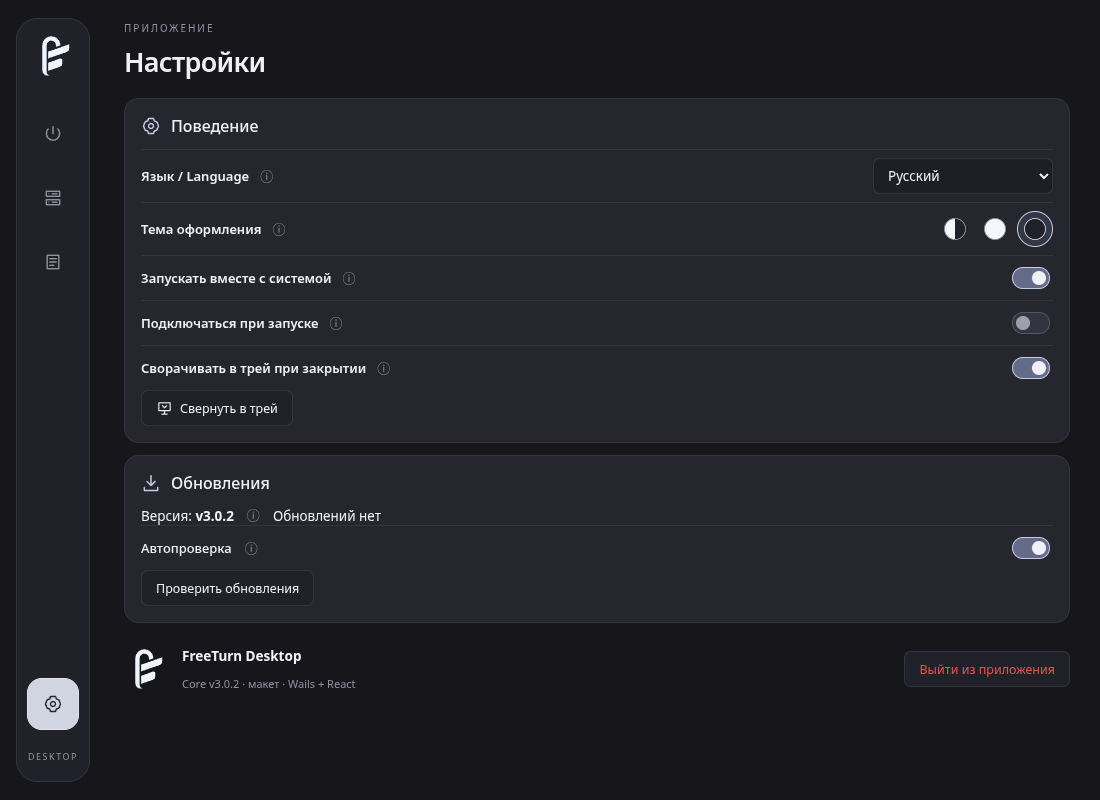
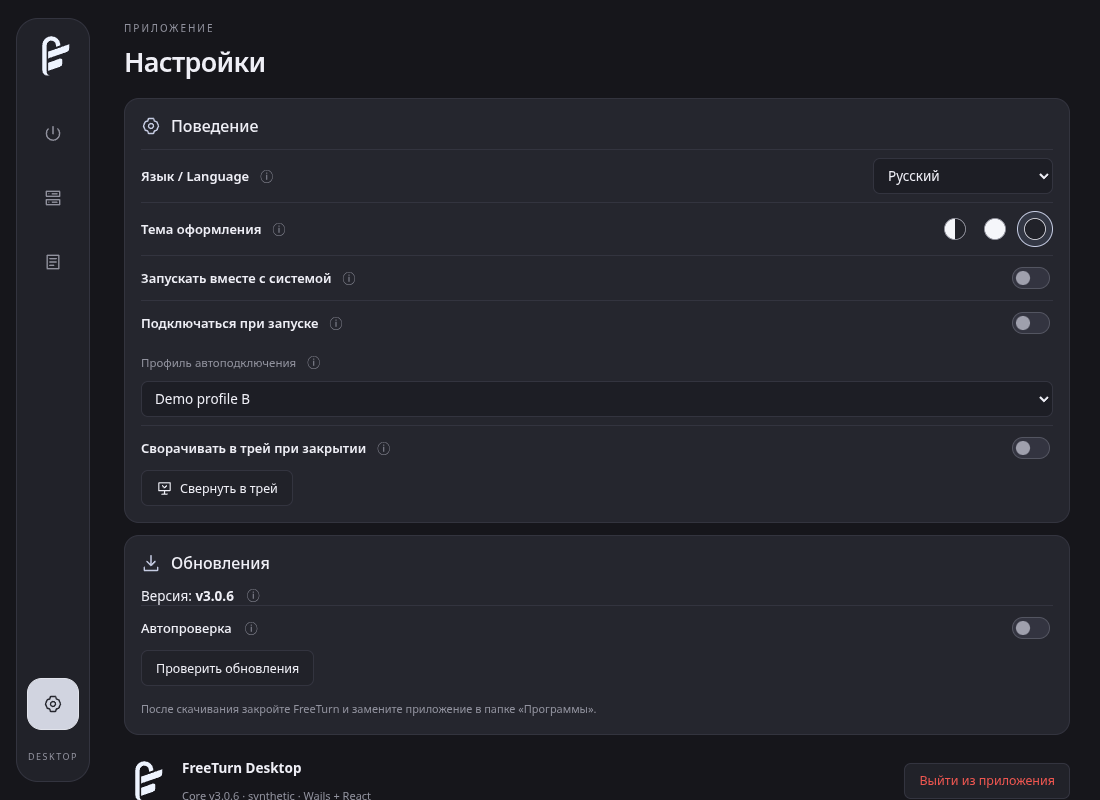
Repair stale startup profile selection before enabling auto-connect

diff --git a/desktop/frontend/src/components/DesktopPreferences.tsx b/desktop/frontend/src/components/DesktopPreferences.tsx
@@ -7,6 +7,7 @@ import {availableLanguages, configureLanguage, tr} from '../language'
 import FieldLabel from './FieldLabel'
 import {configureTheme, subscribeTheme, themeSnapshot} from '../theme'
 import ThemePicker from './ThemePicker'
+import {resolveStartupProfile} from '../autoConnectSettings'
 
 function PreferenceSwitch({id, title, hint, checked, disabled, onChange}: {
   id:string; title:string; hint:string; checked:boolean; disabled:boolean; onChange:(value:boolean)=>void
@@ -17,11 +18,14 @@ function PreferenceSwitch({id, title, hint, checked, disabled, onChange}: {
   </div>
 }
 
-export default function DesktopPreferences({version, active, servers}: {version: string; active: boolean; servers: backend.Server[]}) {
+export default function DesktopPreferences({version, active, servers, selectedServerId}: {version: string; active: boolean; servers: backend.Server[]; selectedServerId?: string}) {
   const [settings, setSettings] = useState<DesktopSettings | null>(null)
   const theme = useSyncExternalStore(subscribeTheme, themeSnapshot)
   const [busy, setBusy] = useState(false)
   const [error, setError] = useState('')
+  const startupProfileId=resolveStartupProfile(servers,settings?.autoConnectServerId||'',selectedServerId)
+  const savedStartupAvailable=!!settings?.autoConnectServerId&&servers.some(server=>server.id===settings.autoConnectServerId)
+  const missingStartupProfile=!!settings&&!!(settings.autoConnect||settings.autoConnectServerId)&&!savedStartupAvailable
   const refresh = () => desktop().DesktopSettings().then(setSettings)
   useEffect(() => { refresh().catch(e=>setError(String(e))) }, [])
 
@@ -66,15 +70,15 @@ export default function DesktopPreferences({version, active, servers}: {version:
           checked={settings.autostart} disabled={busy||!settings.supported} onChange={value=>run(()=>desktop().SetAutostart(value))} />
         <PreferenceSwitch id="connect-at-startup" title={tr('Подключаться при запуске', 'Connect on startup')}
           hint={tr('Одна попытка при запуске приложения. Проверка VK может потребовать действий пользователя; при ошибке подключитесь вручную.', 'One attempt when the app starts. VK verification may require user action; reconnect manually after a failure.')}
-          checked={settings.autoConnect} disabled={busy||(!servers.length&&!settings.autoConnect)}
-          onChange={value=>run(()=>desktop().SetAutoConnect(value,settings.autoConnectServerId||servers[0]?.id||''))} />
-        {settings.autoConnect && <div className="field autoconnect-profile">
+          checked={settings.autoConnect} disabled={busy||(!startupProfileId&&!settings.autoConnect)}
+          onChange={value=>run(()=>desktop().SetAutoConnect(value,value?startupProfileId:settings.autoConnectServerId))} />
+        {(settings.autoConnect || servers.length>0) && <div className="field autoconnect-profile">
           <FieldLabel htmlFor="startup-profile" label={tr('Профиль автоподключения', 'Startup connection profile')} hint={tr('Используется только при запуске приложения. Выключение автоподключения не удаляет выбранный профиль.', 'Used only at app startup. Disabling auto-connect does not remove the selected profile.')} />
-          <select id="startup-profile" value={settings.autoConnectServerId} disabled={busy||!servers.length} onChange={e=>run(()=>desktop().SetAutoConnect(settings.autoConnect,e.target.value))}>
+          <select id="startup-profile" value={settings.autoConnect&&missingStartupProfile?'':startupProfileId} disabled={busy||!startupProfileId} onChange={e=>run(()=>desktop().SetAutoConnect(settings.autoConnect,e.target.value))}>
             <option value="" disabled>{tr('Выберите профиль', 'Select a profile')}</option>
-            {settings.autoConnectServerId&&!servers.some(s=>s.id===settings.autoConnectServerId)&&<option value={settings.autoConnectServerId} disabled>{tr('Профиль удалён — выберите другой', 'Profile deleted — select another')}</option>}
-            {servers.map(s=><option key={s.id} value={s.id}>{s.name||s.id}</option>)}
+            {servers.filter(s=>s.id.trim()).map(s=><option key={s.id} value={s.id}>{s.name||s.peer||s.id}</option>)}
           </select>
+          {missingStartupProfile&&<p className="settings-note" role="status">{tr('Сохранённый профиль недоступен. Проверьте профиль автоподключения.', 'The saved profile is unavailable. Check the startup connection profile.')}</p>}
         </div>}
         {settings.autoConnectError&&<div className="notice error" role="alert">{settings.autoConnectError}</div>}
         <PreferenceSwitch id="close-to-tray" title={tr('Сворачивать в трей при закрытии', 'Minimize to tray on close')}

diff --git a/desktop/frontend/src/autoConnectSettings.ts b/desktop/frontend/src/autoConnectSettings.ts
@@ -1,0 +1,9 @@
+// A stored startup profile can outlive its deletion from the live profile list.
+// Prefer an explicit valid choice, then the visible profile, then a saved entry.
+// This only chooses a UI value; it never persists settings or connects a VPN.
+export function resolveStartupProfile(servers: readonly {id: string}[], savedId: string, selectedId?: string): string {
+  const exists = (id: string | undefined): id is string => !!id?.trim() && servers.some(server => server.id === id)
+  if (exists(savedId)) return savedId
+  if (exists(selectedId)) return selectedId
+  return servers.find(server => server.id.trim())?.id || ''
+}

diff --git a/desktop/frontend/src/App.tsx b/desktop/frontend/src/App.tsx
@@ -195,7 +195,7 @@ export default function App() {
             onEdit={() => setView('servers')}
           />
         )}
-        {settingsOpened && <DesktopPreferences version={version} active={view === 'settings'} servers={servers} />}
+        {settingsOpened && <DesktopPreferences version={version} active={view === 'settings'} servers={servers} selectedServerId={selectedId||undefined} />}
         {view === 'logs' && (
           <section className="logs-page">
             <header className="page-heading">

diff --git a/desktop/frontend/src/style.css b/desktop/frontend/src/style.css
@@ -1004,8 +1004,8 @@ button:disabled {
 .autoconnect-profile {
   display: flex;
   flex-direction: column;
-  gap: 8px;
-  margin: 14px 0;
+  gap: 4px;
+  margin: 8px 0;
 }
 .navigation nav {
   display: flex;

diff --git a/desktop/autoconnect_test.go b/desktop/autoconnect_test.go
@@ -53,11 +53,18 @@ func TestAutoConnectPreferences(t *testing.T) {
 		t.Fatal(err)
 	}
 	a := &App{store: store, preferences: integration.Preferences{CloseToTray: true}}
+	a.autoConnectError = "previous startup used a deleted profile"
 	if err := a.SetAutoConnect(true, "missing"); err == nil {
 		t.Fatal("accepted missing profile")
 	}
+	if a.autoConnectError == "" {
+		t.Fatal("invalid preference hid a startup failure")
+	}
 	if err := a.SetAutoConnect(true, srv.ID); err != nil {
 		t.Fatal(err)
+	}
+	if a.autoConnectError != "" {
+		t.Fatal("fixed startup profile retained a stale error")
 	}
 	if err := a.SetCloseToTray(false); err != nil {
 		t.Fatal(err)

diff --git a/desktop/desktop.go b/desktop/desktop.go
@@ -171,6 +171,7 @@ func (a *App) SetAutoConnect(enabled bool, serverID string) error {
 		return err
 	}
 	a.preferences = prefs
+	a.autoConnectError = ""
 	return nil
 }
 func (a *App) InstallDesktop() (string, error)        { return integration.Install() }
